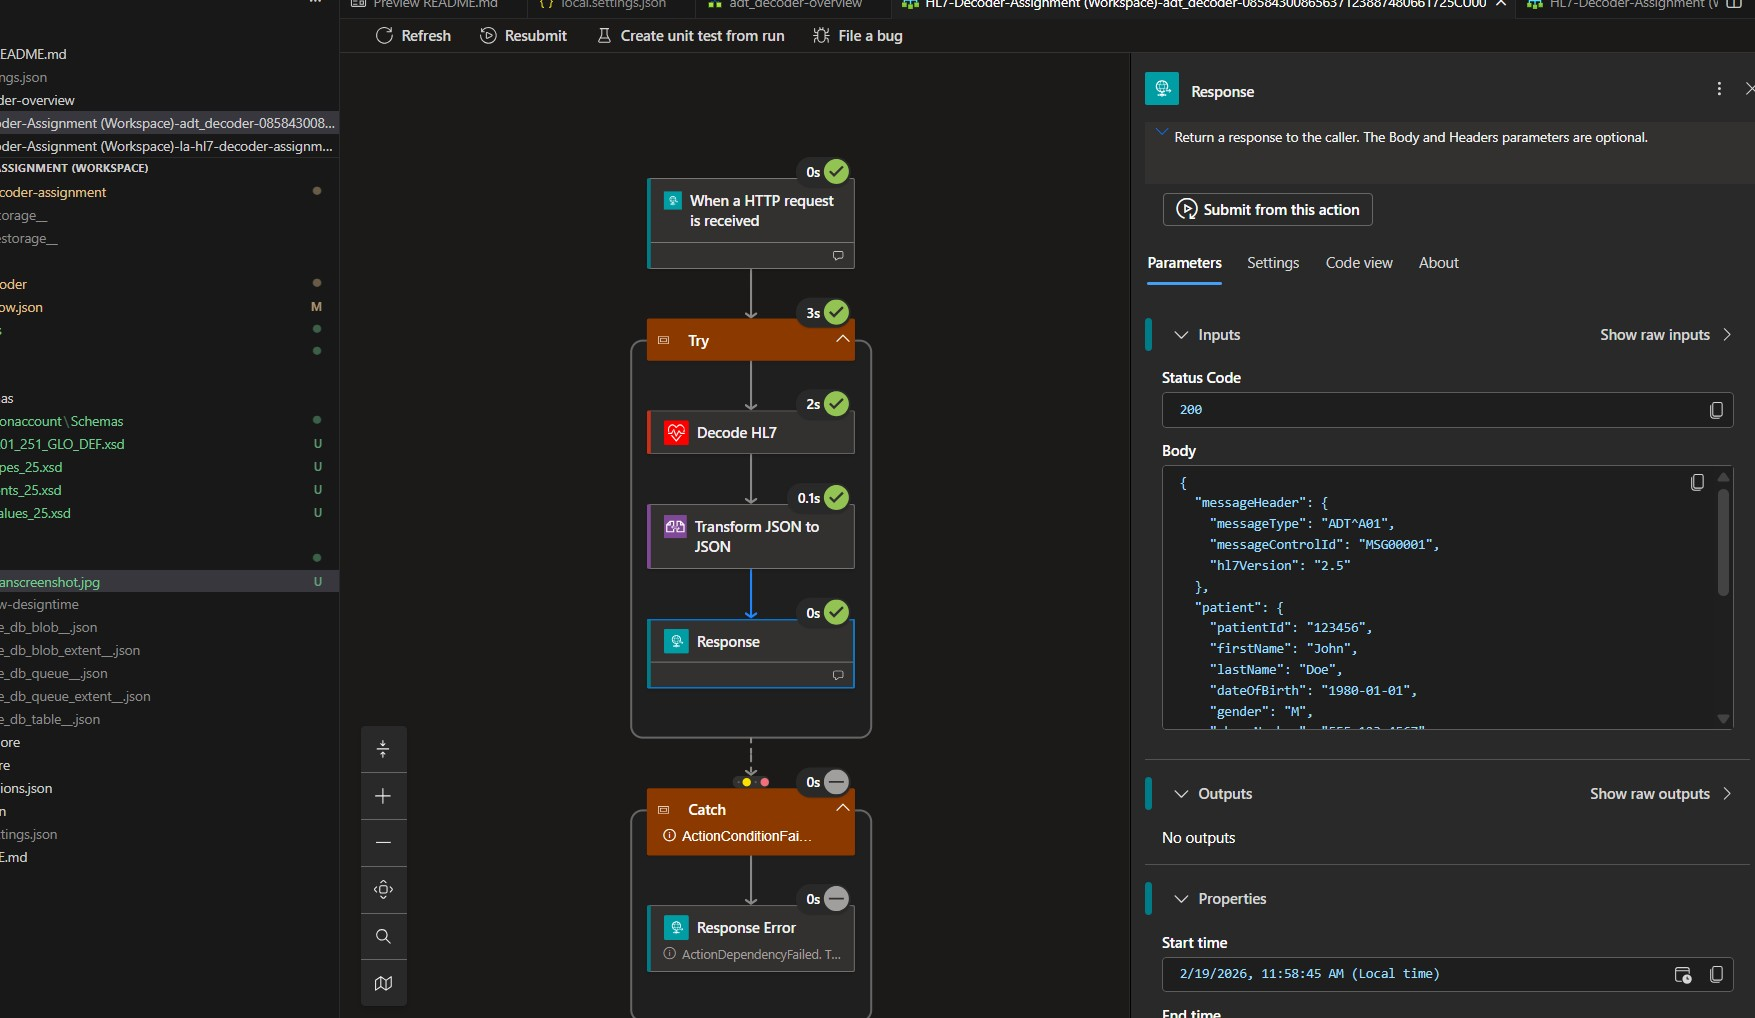
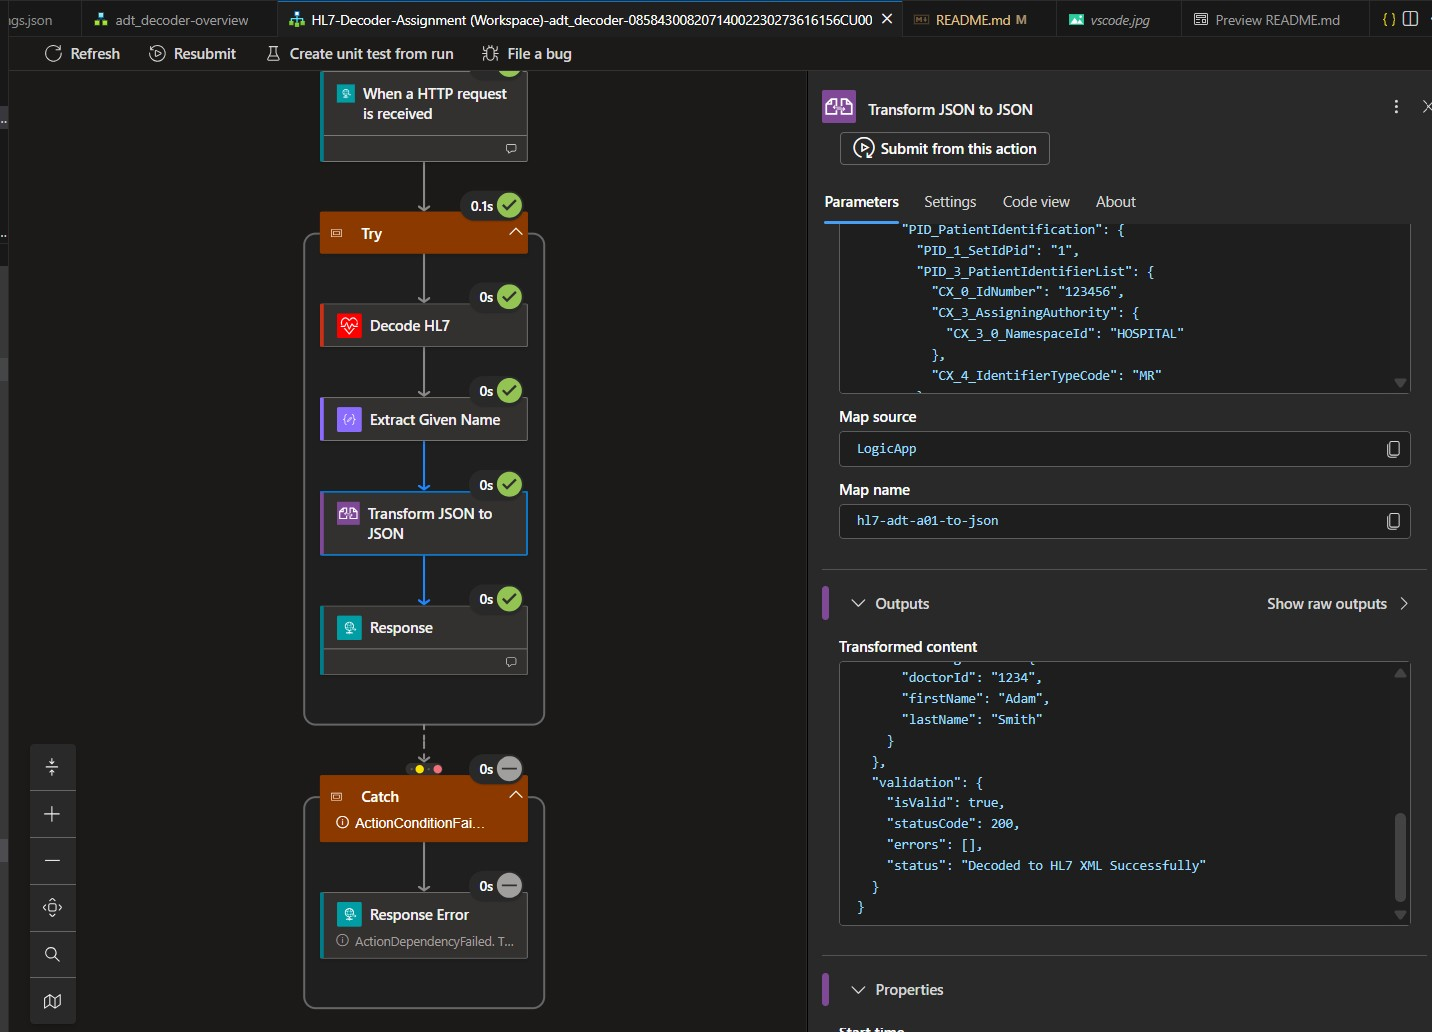
final version of code..

diff --git a/README.md b/README.md
@@ -1,14 +1,22 @@
 # HL7-Decoder-Assignment
 
+
 ## Prerequisites
 
 - An Azure Integration Account is required.
-- Upload the HL7 v2.5 schemas to the Integration Account before running this project.
-- Confirm `ADT_A01` for v2.5 is uploaded, typically with:
+- Upload the HL7 v2.5 below schemas to the Integration Account before running this project.
 	- `ADT_A01_25_GLO_DEF.xsd`
 	- `segments_25.xsd`
 	- `datatypes_25.xsd`
 	- `tablevalues_25.xsd`
+
+## Project Structure
+
+**Key Folders:**
+- **`adt_decoder/`** - Contains the Logic App workflow definition
+- **`Artifacts/Maps/`** - Liquid templates for HL7 to JSON transformation with validation logic
+- **`intigrationaccount/Schemas/`** - HL7 v2.5 XSD schemas to upload to Azure Integration Account
+- **`outputs/`** - Sample test requests/responses and screenshots demonstrating the workflow
 
 ## Local setup
 
@@ -17,7 +25,7 @@
 2. Open this workspace folder:
 	 - `la-hl7-decoder-assignment`
 3. In `la-hl7-decoder-assignment`, create a file named `local.settings.json`.
-4. Paste the following settings into `local.settings.json` and update information from Azure Subscritpion including "WORKFLOW_INTEGRATION_ACCOUNT_CALLBACK_URL
+4. Paste the following settings into `local.settings.json`.
 
 ```json
 {
@@ -43,3 +51,223 @@
 
 - Replace values specific to your subscription before running locally.
 - Keep `local.settings.json` local and do not commit secrets.
+
+## Design decisions
+
+- Logic App Standard is used so the workflow can run locally in VS Code.
+- HTTP trigger is used to accept HL7 input for easy testing with Postman/curl.
+- HL7 schema validation/decoding is delegated to the Integration Account artifacts.
+
+
+## XPath expressions (reference)
+
+I did not use XPath in the implementation. The following are sample XPath expressioni just added in the code, based on a decoded `ADT_A01_25_GLO_DEF` output.
+
+
+- Patient First Name (`John`):
+```json
+	{
+  "type": "Compose",
+  "inputs": "@xpath(xml(body('Decode_HL7')['messageContent']), '//*[local-name()=\"XPN_1_GivenName\"]/text()')?[0]",
+  "runAfter": {
+    "Decode_HL7": [
+      "Succeeded"
+    ]
+  }
+}
+```
+
+## Mandatory Validations
+
+The project implements field validation using **Liquid templates** during the JSON transformation step. This approach validates required fields and returns appropriate HTTP status codes based on validation results.
+
+### Implementation Approach
+
+**Liquid Map Validation** (Current Implementation)
+- Validation logic is embedded in the `hl7-adt-a01-to-json.liquid` transformation map
+- Required fields are assigned to variables and checked for `nil`, `blank`, `empty`, or `""`
+- The output JSON includes a `validation` section with:
+  - `isValid`: boolean flag
+  - `statusCode`: 200 (success) or 400 (validation failure)
+  - `errors`: array of validation error objects with field name and message
+  - `status`: descriptive status message
+- The workflow's Response action dynamically uses the statusCode from the Liquid output
+
+### Example Validations
+
+The following mandatory fields are currently validated:
+
+1. **Patient ID (PID-3)** - Must be present and non-empty
+   ```liquid
+   {% assign patientId = content.messagecontent['ns0:ADT_A01_25_GLO_DEF'].PID_PatientIdentification.PID_3_PatientIdentifierList.CX_0_IdNumber %}
+   {% if patientId == nil or patientId == blank or patientId == empty or patientId == "" %}
+   ```
+
+2. **Patient Given Name (PID-5.1)** - Must be present and non-empty
+   ```liquid
+   {% assign givenName = content.messagecontent['ns0:ADT_A01_25_GLO_DEF'].PID_PatientIdentification.PID_5_PatientName.XPN_1_GivenName %}
+   {% if givenName == nil or givenName == blank or givenName == empty or givenName == "" %}
+   ```
+
+### Sample Validation Response
+
+**When validation fails:**
+```json
+{
+  "validation": {
+    "isValid": false,
+    "statusCode": 400,
+    "errors": [
+      {
+        "field": "patient.patientId",
+        "message": "Patient ID (PID-3) is required and cannot be empty"
+      },
+      {
+        "field": "patient.firstName",
+        "message": "Given Name (PID-5.1) is required and cannot be empty"
+      }
+    ],
+    "status": "Validation failed - required fields missing"
+  }
+}
+```
+
+### Alternative Validation Approaches
+
+While Liquid template validation is currently implemented, other options include:
+
+1. **XPath-based Validation**(but for a limited fields)
+  
+2. **Azure Function Validation**
+
+3. **XML Schema Validation (XSD)**
+
+The Liquid template approach was chosen for its simplicity, minimal latency, and ability to combine transformation and validation in a single step.
+
+## Sample test requests and responses
+
+### Sample request (HTTP body)
+
+```text
+MSH|^~\&|ADT1|GOOD HEALTHHOSPITAL|EHR|HOSPITAL|202401011200||ADT^A01|MSG00001|P|2.5
+PID|1||123456^^^HOSPITAL^MR||Doe^John||19800101|M|||123 MainSt^^Metropolis^NY^10001||555-123-4567
+PV1|1|I|2000^2012^01||||1234^Smith^Adam
+
+```
+
+### Sample success response (example)
+
+```json
+{
+    "messageHeader": {
+        "messageType": "ADT^A01",
+        "messageControlId": "MSG00001",
+        "hl7Version": "2.5"
+    },
+    "patient": {
+        "patientId": "123456",
+        "firstName": "John",
+        "lastName": "Doe",
+        "dateOfBirth": "1980-01-01",
+        "gender": "M",
+        "phoneNumber": "555-123-4567"
+    },
+    "visit": {
+        "patientClass": "I",
+        "location": "2000-2012-01",
+        "attendingDoctor": {
+            "doctorId": "1234",
+            "firstName": "Adam",
+            "lastName": "Smith"
+        }
+    },
+    "validation": {
+        "isValid": true,
+        "statusCode": 200,
+        "errors": [],
+        "status": "Decoded to HL7 XML Successfully"
+    }
+}
+```
+### Sample Invlaid request (HTTP body)
+
+```text
+MSH|^~\&|ADT1|GOOD HEALTHHOSPITAL|EHR|HOSPITAL|202401011200||ADT^A01|MSG00001|P|2.5
+PID|1||^^^HOSPITAL^MR||Doe^||19800101|M|||123 MainSt^^Metropolis^NY^10001||555-123-4567
+PV1|1|I|2000^2012^01||||1234^Smith^Adam
+
+```
+### Sample error response (example)
+
+```json
+{
+    "messageHeader": {
+        "messageType": "ADT^A01",
+        "messageControlId": "MSG00001",
+        "hl7Version": "2.5"
+    },
+    "patient": {
+        "patientId": "",
+        "firstName": "",
+        "lastName": "Doe",
+        "dateOfBirth": "1980-01-01",
+        "gender": "M",
+        "phoneNumber": "555-123-4567"
+    },
+    "visit": {
+        "patientClass": "I",
+        "location": "2000-2012-01",
+        "attendingDoctor": {
+            "doctorId": "1234",
+            "firstName": "Adam",
+            "lastName": "Smith"
+        }
+    },
+    "validation": {
+        "isValid": false,
+        "statusCode": 400,
+        "errors": [
+            {
+                "field": "patient.patientId",
+                "message": "Patient ID (PID-3) is required and cannot be empty"
+            },
+            {
+                "field": "patient.firstName",
+                "message": "Given Name (PID-5.1) is required and cannot be empty"
+            }
+        ],
+        "status": "Validation failed - required fields missing"
+    }
+}
+```
+
+## Assumptions
+
+- `local.settings.json` contains valid values for tenant/subscription/resource group/location and callback URL.
+- Invalid HL7 messages are not handled in the current implementation,I ass it is not timing out..something we have to check on it..
+
+## Screenshots
+
+### VS Code Workflow Designer
+![VS Code Workflow](outputs/vscode.jpg)
+
+### Postman Testing
+![Postman Request/Response](outputs/postmanscreenshot.jpg)
+
+### XPath Extraction Example
+![XPath Extraction](outputs/xpath%20extraction.jpg)
+
+### Validation Success
+![Validation Success Message](outputs/validation_success_message.jpg)
+
+### Validation Error
+![Validation Error Message](outputs/validation_error_message.jpg)
+
+## Reference
+- Getting HL7 v2.5 schemas was a challenge. I was able to get them by renting an Azure BizTalk VM
+
+---
+
+<p align="center">
+<em>I was able to do a nice Readme document with the help of co-pilot 😊 thanks to co-pilot</em>
+</p>
